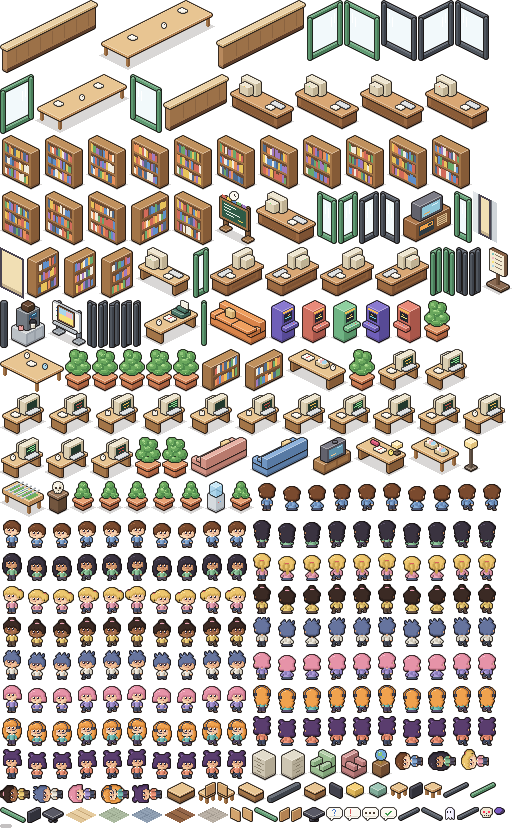
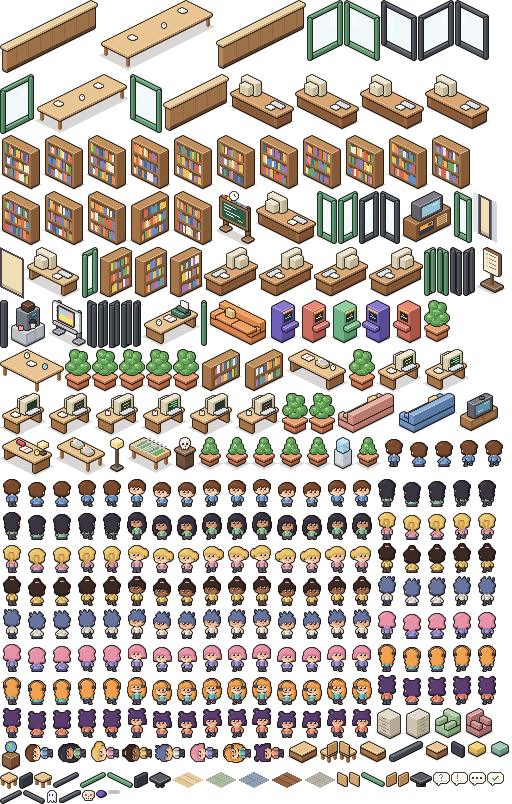
Leva as mesas 5 e 6 das salas de squad para a parede do fundo e libera o corredor

diff --git a/test/world2d.test.ts b/test/world2d.test.ts
@@ -165,6 +165,27 @@ describe('layout 2D do andar de projeto', () => {
     }
   })
 
+  it('as seis mesas de cada sala bloqueiam o próprio tile e deixam livre o corredor da porta até o coordenador', () => {
+    const grid = grid2d(LAYOUT)
+    const plan = projectPlan2d(LAYOUT, [squad('sala-1', 6), squad('sala-2', 6), squad('sala-3', 6)])
+    for (const room of plan.rooms) {
+      const z0 = room.rect[1]
+      expect(room.desks).toHaveLength(6)
+      // every desk is furniture now, members 5 and 6 included
+      for (const desk of room.desks)
+        expect(grid.walkable(Math.floor(desk.center!.x), Math.floor(desk.center!.z)), `mesa ${desk.index}`).toBe(false)
+      // the middle rows, from the door (x 8) to the delivery column (x 3), stay free
+      for (let x = 3; x <= 8; x++) for (const z of [z0 + 2, z0 + 3]) expect(grid.walkable(x, z), `${x},${z}`).toBe(true)
+      // no two sitters share a tile: members, coordinator and the inline member beside it
+      const spots = [...room.desks.map((d) => d.approach), room.coordinator.approach, room.coordinator.sideApproach].map(
+        ([x, z]) => `${x},${z}`,
+      )
+      expect(new Set(spots).size).toBe(spots.length)
+      // nobody's chair stands in the aisle
+      for (const desk of room.desks) expect([z0 + 2, z0 + 3]).not.toContain(desk.approach[1])
+    }
+  })
+
   it('não atravessa as paredes de vidro fora das portas', () => {
     const grid = grid2d(LAYOUT)
     // squad room 1 east wall: closed at row 0, a door at rows 2 and 3

diff --git a/src/renderer/src/world2d/layout.ts b/src/renderer/src/world2d/layout.ts
@@ -144,9 +144,9 @@ function emptyRoom(art: RoomArt, index: number): SquadRoom {
       rot: headingOf(seat.dir),
       seat: { x: sx, z: sz },
       approach: [Math.floor(sx), Math.floor(sz)],
-      // beside the coordinator, between the desk and the bookshelf
-      side: { x: Math.floor(sx) + 0.5, z: z0 + 4.5 },
-      sideApproach: [Math.floor(sx), z0 + 4],
+      // beside the coordinator, in front of the bookshelf (row 4 is the chair of member 6, against the far wall)
+      side: { x: Math.floor(sx) + 0.5, z: z0 + 2.5 },
+      sideApproach: [Math.floor(sx), z0 + 2],
       // the aisle in front of the coordinator's desk, middle first
       deliver: [2, 3, 1, 4, 0, 5].map((dz): [number, number] => [3, z0 + dz]),
     },

diff --git a/scripts/pixel-art/scene_projeto.py b/scripts/pixel-art/scene_projeto.py
@@ -32,8 +32,9 @@ MEETING_SEATS = [(200, cy, '+x') for cy in (170, 196, 222)] + [(242, cy, '-x') f
 
 def slots(ry0, h):
     """member desks of a squad room, in creation order: near column first, top then bottom.
-    The approved art shows the first four; 5 and 6 fill the middle row of each column."""
-    return [(64, ry0 + 8), (64, ry0 + h - 34), (104, ry0 + 8), (104, ry0 + h - 34), (64, ry0 + 35), (104, ry0 + 35)]
+    The approved art shows the first four; 5 and 6 stand against the far wall, behind the coordinator,
+    so the middle rows stay the aisle from the door to the coordinator's desk."""
+    return [(64, ry0 + 8), (64, ry0 + h - 34), (104, ry0 + 8), (104, ry0 + h - 34), (2, ry0 + 8), (2, ry0 + h - 34)]
 
 
 def coordinator_at(ry0, h):
@@ -150,7 +151,9 @@ def room_walls(sc, ry0, h):
 
 def room_shelf(sc, ry0, h):
     L = sc.L
-    sc.add((2, ry0 + h - 26, 10, ry0 + h - 4), lambda: G.bookshelf_x(L, 2, ry0 + h - 26, 22, seed=ry0), True)
+    # behind the coordinator, between the far-wall desks of members 5 and 6
+    y = ry0 + h // 2 - 13
+    sc.add((2, y, 10, y + 22), lambda: G.bookshelf_x(L, 2, y, 22, seed=ry0), True)
 
 
 def build():

diff --git a/scripts/pixel-art/export_app.py b/scripts/pixel-art/export_app.py
@@ -339,8 +339,8 @@ def main():
     blocked = set()
     furniture = [it['fp'] for it in static if not it.get('wall')]
     furniture += [room['coordinator']['desk']['green']['fp'] for room in rooms]
-    # the four desks of the approved art; the middle row (members 5 and 6) stays the aisle between them
-    furniture += [slot['desk']['green']['fp'] for room in rooms for slot in room['slots'][:4]]
+    # all six member desks: 5 and 6 stand against the far wall, so the middle rows stay the aisle
+    furniture += [slot['desk']['green']['fp'] for room in rooms for slot in room['slots']]
     furniture.append(emi['desk']['green']['fp'])
     for x0, y0, x1, y1 in furniture:
         for tx in covered(x0, x1):

diff --git a/docs/specs/motor-2d.md b/docs/specs/motor-2d.md
@@ -71,7 +71,11 @@ sala, placa da reunião, Emi, móveis clicáveis da Casa e do andar de estudos, 
   (Economia na bateria ou `prefers-reduced-motion`), sem animação.
 - **Portas do elevador**: cada `ding` abre as portas daquele andar (meio aberta 0,12 s, aberta até 1,5 s, meio
   aberta, fechada); quadros `elevator.open` em cada layout, desenhados por cima da base.
-- **Descanso no sofá**: quem descansa (`relax`) num canto `sit` da Casa aparece sentado de costas no sofá.
+- **Descanso no sofá**: quem descansa (`relax`) num canto `sit` da Casa aparece sentado de costas no sofá. Atingido
+  pela Caveira ali, vai antes para o piso livre mais perto (`game/strike-spot.ts`) e cai no chão, não no sofá.
+- **Placas**: um canvas por texto, num LRU de 32 (`world2d/lru.ts`), então textos que mudam não acumulam.
+- **Mesas 5 e 6** de cada sala de squad ficam na parede do fundo, atrás do coordenador (a estante foi para o meio
+  dessa parede): as seis mesas bloqueiam o tile delas e as fileiras do meio ficam livres da porta até o coordenador.
 - **Caveira**: como era no 3D: a caveira cai sobre o agente, ri parada no ar, mergulha; fumaça roxa, o agente cai
   (`char/<v>/down`), "x_x", e um fantasma sobe e some. Tudo dirigido pelo `update(dt)` (`game/skull.ts`, `fx`),
   com os sons de `game/sfx.ts`.
@@ -125,10 +129,7 @@ máximo 96 (o cache é limpo ao chegar nisso), então agentes, caveira e roupa s
 
 - No andar de estudos: os professores são fixos (não são agentes); o da vez fica de pé, sem gesto; a etapa só é
   relida a cada 4 s; as 9 estantes abrem a mesma busca; Cora e Bonnie não conversam nem andam.
-- Na Casa: agentes sem projeto e sem casa esperam no hall (sem mesa); quem é derrubado no sofá cai por cima dele.
+- Na Casa: agentes sem projeto e sem casa esperam no hall (sem mesa).
 - Só os quatro balões em pixel art (`... ! ? ok`); o diamante da conta e a aura de esforço do 3D não existem no 2D
   (a conta segue no chip da tag quando há mais de uma).
-- O cache de placas (`plaques`) guarda um canvas por texto já visto (ex.: "Sala de reunião · N em reunião");
-  pequeno, mas sem teto.
-- As mesas 5 e 6 de uma sala ficam no corredor do meio e não bloqueiam a passagem.
 - Agentes individuais sentam nas mesas livres das salas de squad, até 10; os demais ficam de pé no lounge.

diff --git a/scripts/pixel-art/README.md b/scripts/pixel-art/README.md
@@ -36,4 +36,4 @@ As prévias vão para `out/pixel-art/` (ignorado pelo git). Depois de `export_ap
 - Um tile tem 32×16 pixels (16 unidades do gerador). x cresce para baixo à direita, y (o z do jogo) para baixo à esquerda.
 - Os sprites são exportados já na posição final, então o app só copia pixels: nada de meio pixel arredondado diferente da arte aprovada.
 - `scene_projeto.py`, `scene_casa2.py` e `scene_estudos.py` são a fonte da verdade dos andares. Mudou a geometria lá, rode `export_app.py` de novo; a prévia e o app usam as mesmas funções.
-- As salas de squad têm seis mesas: as quatro da arte aprovada e uma fileira do meio para o 5º e o 6º membro (essas duas não bloqueiam o corredor do meio).
+- As salas de squad têm seis mesas: as quatro da arte aprovada e, para o 5º e o 6º membro, duas na parede do fundo, atrás do coordenador. Todas bloqueiam o tile delas; as fileiras do meio são o corredor da porta até o coordenador.
